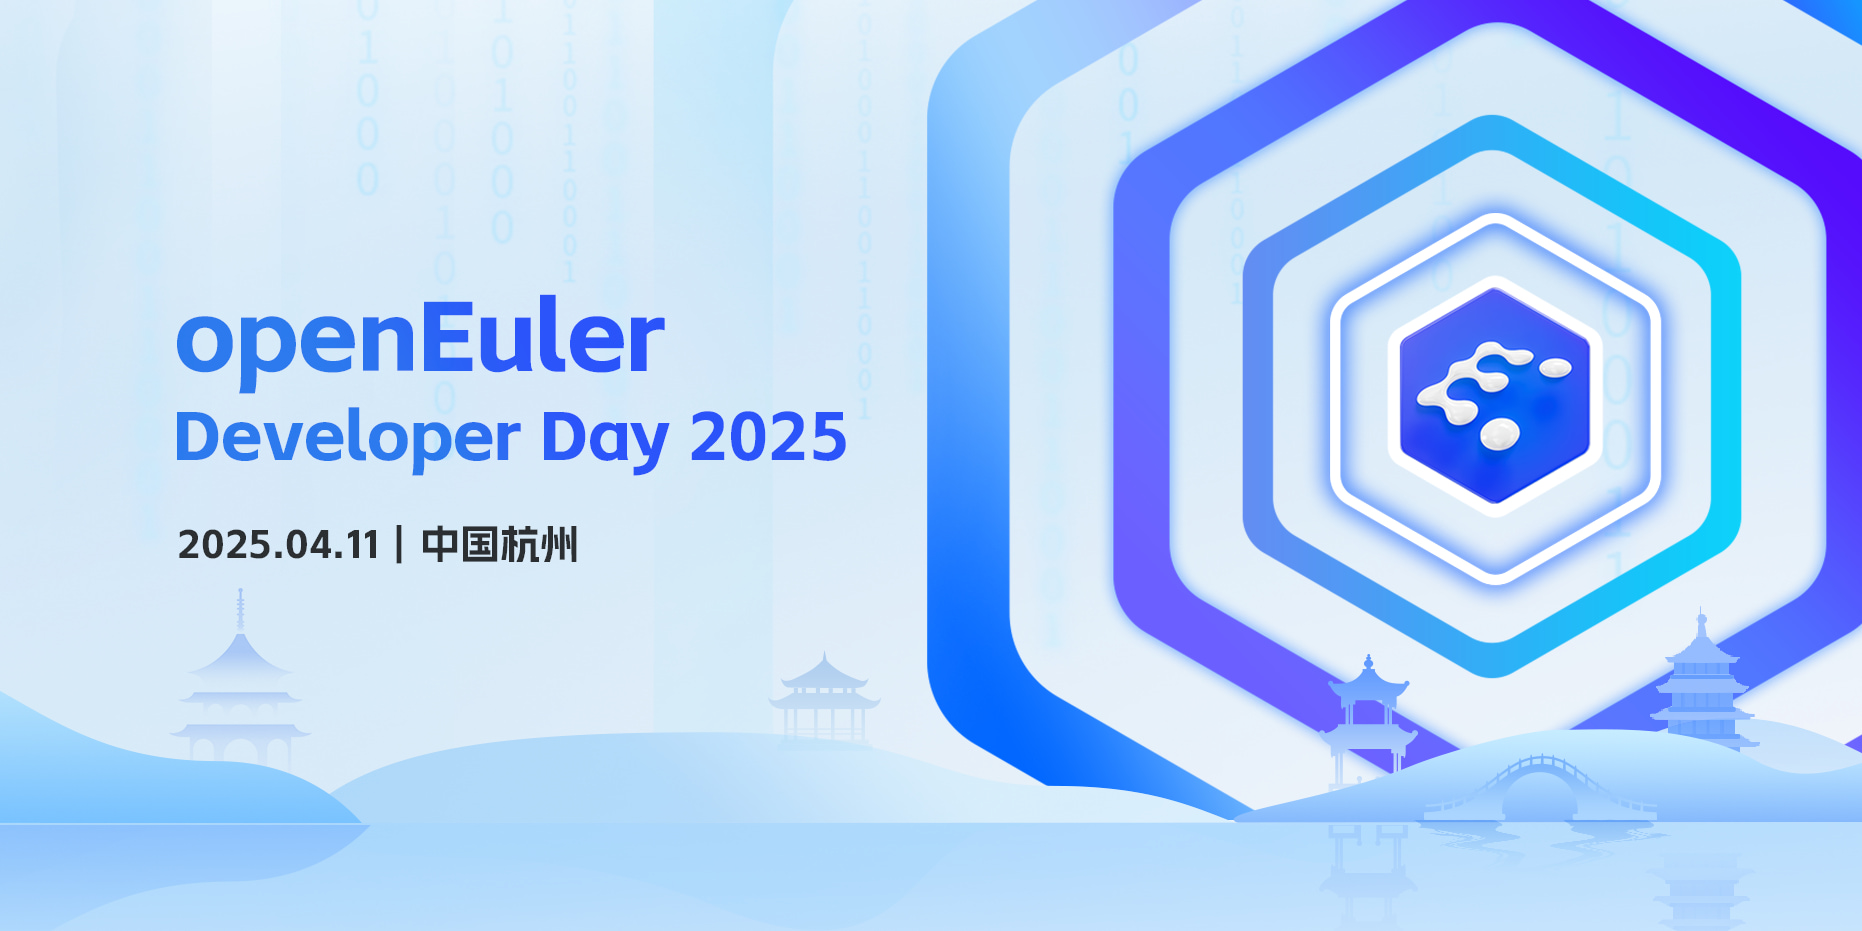
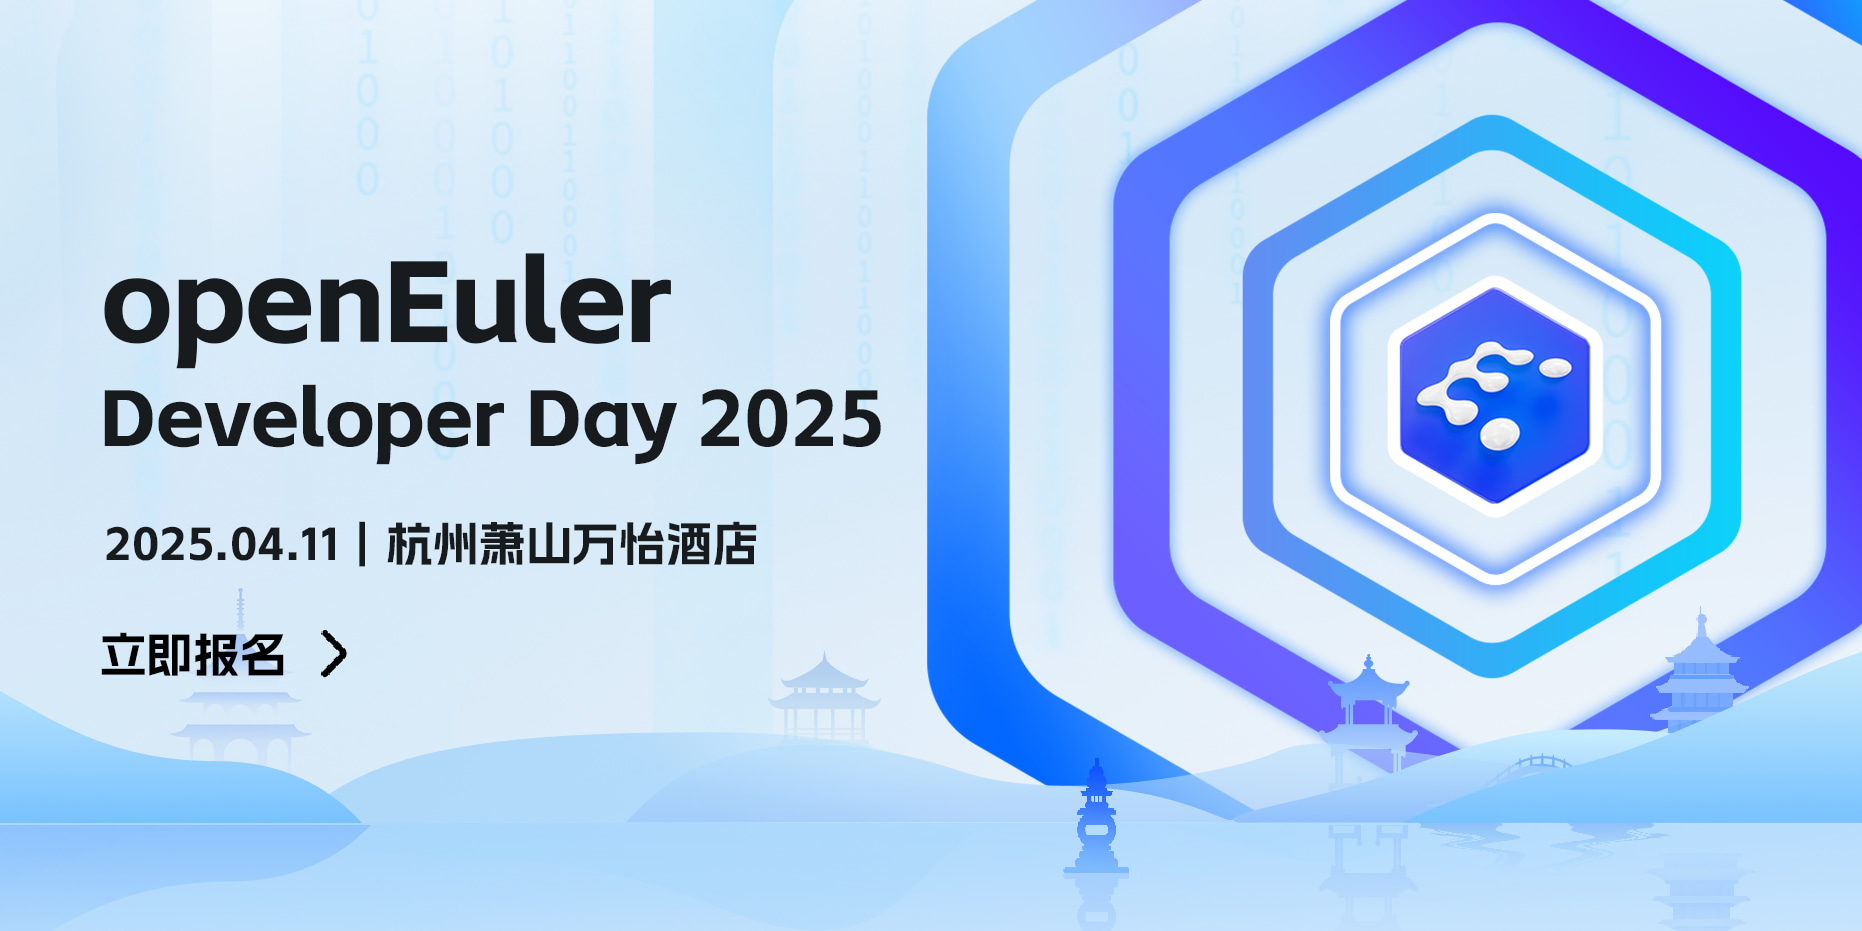
update: 更新ODD内容

diff --git a/app/.vitepress/src-new/views/summit/devday2025/components/MinisiteBanner.vue b/app/.vitepress/src-new/views/summit/devday2025/components/MinisiteBanner.vue
@@ -23,12 +23,10 @@ const isDark = computed(() => {
   return commonStore.theme === 'dark' ? true : false;
 });
 const bannerImage = computed(() => {
-  return isDark.value
-    ? isPhone.value
-      ? props.bannerData.bgMoDark
-      : props.bannerData.bgPcDark
-    : isPhone.value
+  return isPhone.value
     ? props.bannerData.bgMo
+    : isDark.value
+    ? props.bannerData.bgPcDark
     : props.bannerData.bgPc;
 });
 const enrollUrl = computed(() => {
@@ -40,27 +38,37 @@ const enrollUrl = computed(() => {
 
 <template>
   <div class="banner">
-    <div
-      class="banner-image"
-      :style="{
-        backgroundImage: `url(${bannerImage})`,
-      }"
-    ></div>
-    <div class="banner-panel-content">
+    <a v-if="isPhone" :href="enrollUrl">
       <div
-        data-aos="fade-down"
+        class="banner-image"
+        :class="{ 'banner-dark': isDark }"
         :style="{
-          backgroundImage: `url(${bannerData.bgText})`,
+          backgroundImage: `url(${bannerImage})`,
         }"
-        class="banner-text"
-        v-if="!isPhone"
       ></div>
-      <div v-if="bannerData.signUpTitle" data-aos="fade-up">
-        <a :href="enrollUrl">
-          <OButton animation class="home-banner-btn">
-            {{ bannerData.signUpTitle }}
-          </OButton>
-        </a>
+    </a>
+    <div v-else style="width: 100%; height: 100%">
+      <div
+        class="banner-image"
+        :style="{
+          backgroundImage: `url(${bannerImage})`,
+        }"
+      ></div>
+      <div class="banner-panel-content">
+        <div
+          data-aos="fade-down"
+          :style="{
+            backgroundImage: `url(${bannerData.bgText})`,
+          }"
+          class="banner-text"
+        ></div>
+        <div v-if="bannerData.signUpTitle" data-aos="fade-up">
+          <a :href="enrollUrl">
+            <OButton animation class="home-banner-btn">
+              {{ bannerData.signUpTitle }}
+            </OButton>
+          </a>
+        </div>
       </div>
     </div>
   </div>
@@ -114,8 +122,8 @@ const enrollUrl = computed(() => {
 }
 .home-banner-btn {
   @include text1;
-  border-color: #002FA7;
-  color: #002FA7;
+  border-color: #002fa7;
+  color: #002fa7;
   padding: 8px 16px;
   margin-top: var(--o-gap-4);
   border-radius: 40px;
@@ -126,7 +134,7 @@ const enrollUrl = computed(() => {
   justify-content: center;
   font-weight: 400;
 }
- 
+
 @include respond-to('<=pad') {
   .banner {
     height: 270px;
@@ -167,14 +175,8 @@ const enrollUrl = computed(() => {
       background: cover;
     }
 
-    .home-banner-btn {
-      margin-top: 108px;
-      height: 32px;
-      width: 90px;
-
-      @media (min-width: 356px) and (max-width: 600px) {
-        margin-left: calc(0px + 24 * ((100vw - 356px) / (600 - 356)));
-      }
+    .banner-dark {
+      filter: brightness(80%) grayscale(20%) contrast(1.2);
     }
   }
 }

diff --git a/app/.vitepress/src-new/views/summit/devday2025/data/data_zh.ts b/app/.vitepress/src-new/views/summit/devday2025/data/data_zh.ts
@@ -31,7 +31,6 @@ export default {
     bgPc: banner_pc,
     bgMo: banner_mo,
     bgPcDark: banner_pc_dark,
-    bgMoDark: banner_mo_dark,
     bgText: banner_text,
     signUpHrefPc:
       'https://openatomcon.openatom.cn/registration/?activityNo=HD20250305105858',
@@ -52,8 +51,8 @@ export default {
     titleImg: topic_light,
     titleImDark: topic_Dark,
     title: 'SIG Gathering',
-    text: '提交议题',
-    desc: '本次ODD大会的SIG Gathering环节将设立八大专题研讨，方向为：内核开发、全场景应用、AI原生支持、openEuler生态开发、上游生态开发、用户体验设计、RISC-V、云&云原生。欢迎各SIG组选择您感兴趣的的专题链接，填写您的需求，一起线下共同探讨，寻求解决方案。',
+    text: '查看议题',
+    desc: '本次ODD大会的SIG Gathering环节将设立八大专题研讨，方向为：内核开发、AI生态支持、上游生态支持、openEuler高效开发、用户体验设计、云与云原生、全场景应用、RISC-V。欢迎各SIG组选择您感兴趣的的专题链接，填写您的需求，一起线下共同探讨，寻求解决方案。',
     list: [
       {
         title: '内核开发',
@@ -90,7 +89,7 @@ export default {
         href: 'https://etherpad.openeuler.org/p/%E5%8E%9F%E7%94%9F%E5%BC%80%E5%8F%91',
       },
       {
-        title: '上游生态开发',
+        title: '上游生态支持',
         desc: [
           'openEuler始终遵循“上游优先”的策略，帮助开源软件上游天然支持openEuler，让用户可以在开发、集成、使用这些软件时获得便利',
           '本方向主要涉及：openEuler上游支持技术讨论及进展同步，讨论如何做好从上游支持到openEuler集成发布的关键环节，包含上游协同，监测，维护管理等',
